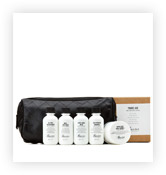
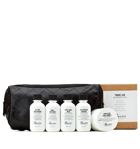
Сетка №2

Changed region(s): [[0.0, 0.5369, 1.0, 0.8859], [0.8286, 0.698, 0.8571, 0.7248]]

diff --git a/catalog.html b/catalog.html
@@ -33,7 +33,7 @@
             <img  src="img/icon-login.png" width="18" height="16"  alt="Вход"></div>
         </div>
     </header>
-    <main class="container clearfix">
+    <main class="container">
         <h1 class="page-title">Средства для ухода</h1>
         <ul class="breadcrumbs">
             <li>
@@ -44,9 +44,9 @@
             </li>
             <li><span class="btn">Средства для ухода</span></li>
         </ul>
-        
-            <div class="index-content-left-a">
-                <form>
+        <div class="choice-pictures clearfix">
+        <div class="index-content-left-choice">
+            <form>
                     <fieldset>
                         <legend>Производители</legend> <input id="baxter" type="checkbox"> 
                         <label for="baxter">Baxter of Сalifornia</label>
@@ -69,7 +69,8 @@
                 </form>
             </div>
         
-        <div class="index-content-right-b">
+        <div class="index-content-right-picture">
+            <div class="product-cards">
             <div class="product-card">
                 <a href="#"><img src="img/travel.jpg"  width="220" height="165"  alt="Набор для путешествий" ></a>
                 <span class="category">Набор для путешествий</span>
@@ -118,7 +119,7 @@
                     <span>3900 руб.</span> <a href="#">Купить</a>
                 </div>
             </div>
-        </div>
+            </div>
         <ul class="pagination">
             <li>
                 <a href="#">1</a>
@@ -133,6 +134,9 @@
                 <a href="#">4</a>
             </li>
         </ul>
+            </div>
+        </div>
+        </main>
        <footer class="main-footer">
             <div class="container clearfix">
                         <section class="footer-contacts">
@@ -154,6 +158,6 @@
                         </section>
             </div>
      </footer>         
-    </main>
+    
 </body>
 </html>

diff --git a/catalog-item.html b/catalog-item.html
@@ -38,7 +38,7 @@
         </div>
             </header>
     <main class="container">
-        <div class="catalogue clerfix">
+        <div class="catalogue">
             <h1 class="page-title">Набор для путешествий "Baxter of California"</h1>
             <ul>
                 <li>
@@ -57,12 +57,12 @@
                   <div class="index-content-left">
                 <div class="gallery">
                     <figure class="gallery-content">
-                        <img alt="Набор для путешествий" height="486" src="img/travelkit_0.jpg" width="524"> 
+                        <img alt="Набор для путешествий" width="460" height="498" src="img/travelkit_0.jpg" > 
                     </figure>
                     <div class="previews">
-                        <img alt="" height="166" src="img/travel-kit_1.jpg" width="175">
-                        <img alt="" height="166" src="img/travel-kit_2.jpg" width="175">
-                        <img alt="" height="166" src="img/travel-kit_3.jpg" width="175">
+                        <img alt="" height="149" width="140" src="img/travel-kit_1.jpg">
+                        <img alt="" height="149" width="140" src="img/travel-kit_2.jpg">
+                        <img alt="" height="149" width="140" src="img/travel-kit_3.jpg">
                     </div>
                                    </div>
             </div>

diff --git a/css/style.css b/css/style.css
@@ -3,7 +3,8 @@ body {
     font-size: 14px;
      color: #000000;
     font-weight: normal;
-    
+    margin: 0;
+    padding: 0;
 }
 
 h1 {
@@ -17,6 +18,10 @@ h2 {
      color: #000000;
     font-weight: normal;
     line-height: 30px;
+}
+figure{
+      margin: 0;
+    padding: 0;
 }
 
 .container{
@@ -58,7 +63,7 @@ h2 {
 }
 .index-content-left{
   float: left;
-  width: 460px;
+  width: 470px;
  background-color: deeppink;
         
 }
@@ -67,16 +72,44 @@ h2 {
      width: 390px;
     background-color: deepskyblue;
 }
-
-.index-content-left-a{
+.gallery-content{
+    margin-bottom: 50px;
+}
+.previews img{
+    display: inline-block;
+    margin-right: 20px;
+}
+.previews img:last-child{
+margin-right:0; 
+}  
+choice-pictures{
+    padding: 10px 10px;
+     margin-bottom: 45px;
+    background-color: red; 
+}
+.index-content-left-choice{
   float: left;
-  width: 220px;  
+  width: 195px;  
     background-color: red;
 }
-.index-content-left-b{
+.index-content-right-picture{
 float: right;
-  width: 720px;
+  width: 710px;
     background-color: greenyellow;
+}
+.product-cards{
+    width: 710px;
+}
+.product-card{
+     display: inline-block;
+     margin-right:20px;
+    width:220px;
+    margin-bottom:20px;
+    text-align:left;
+    vertical-align:top; 
+}
+.product-card:nth-child(3n){
+margin-right:0;
 }
 .main-footer {
     margin-top: 65px;
